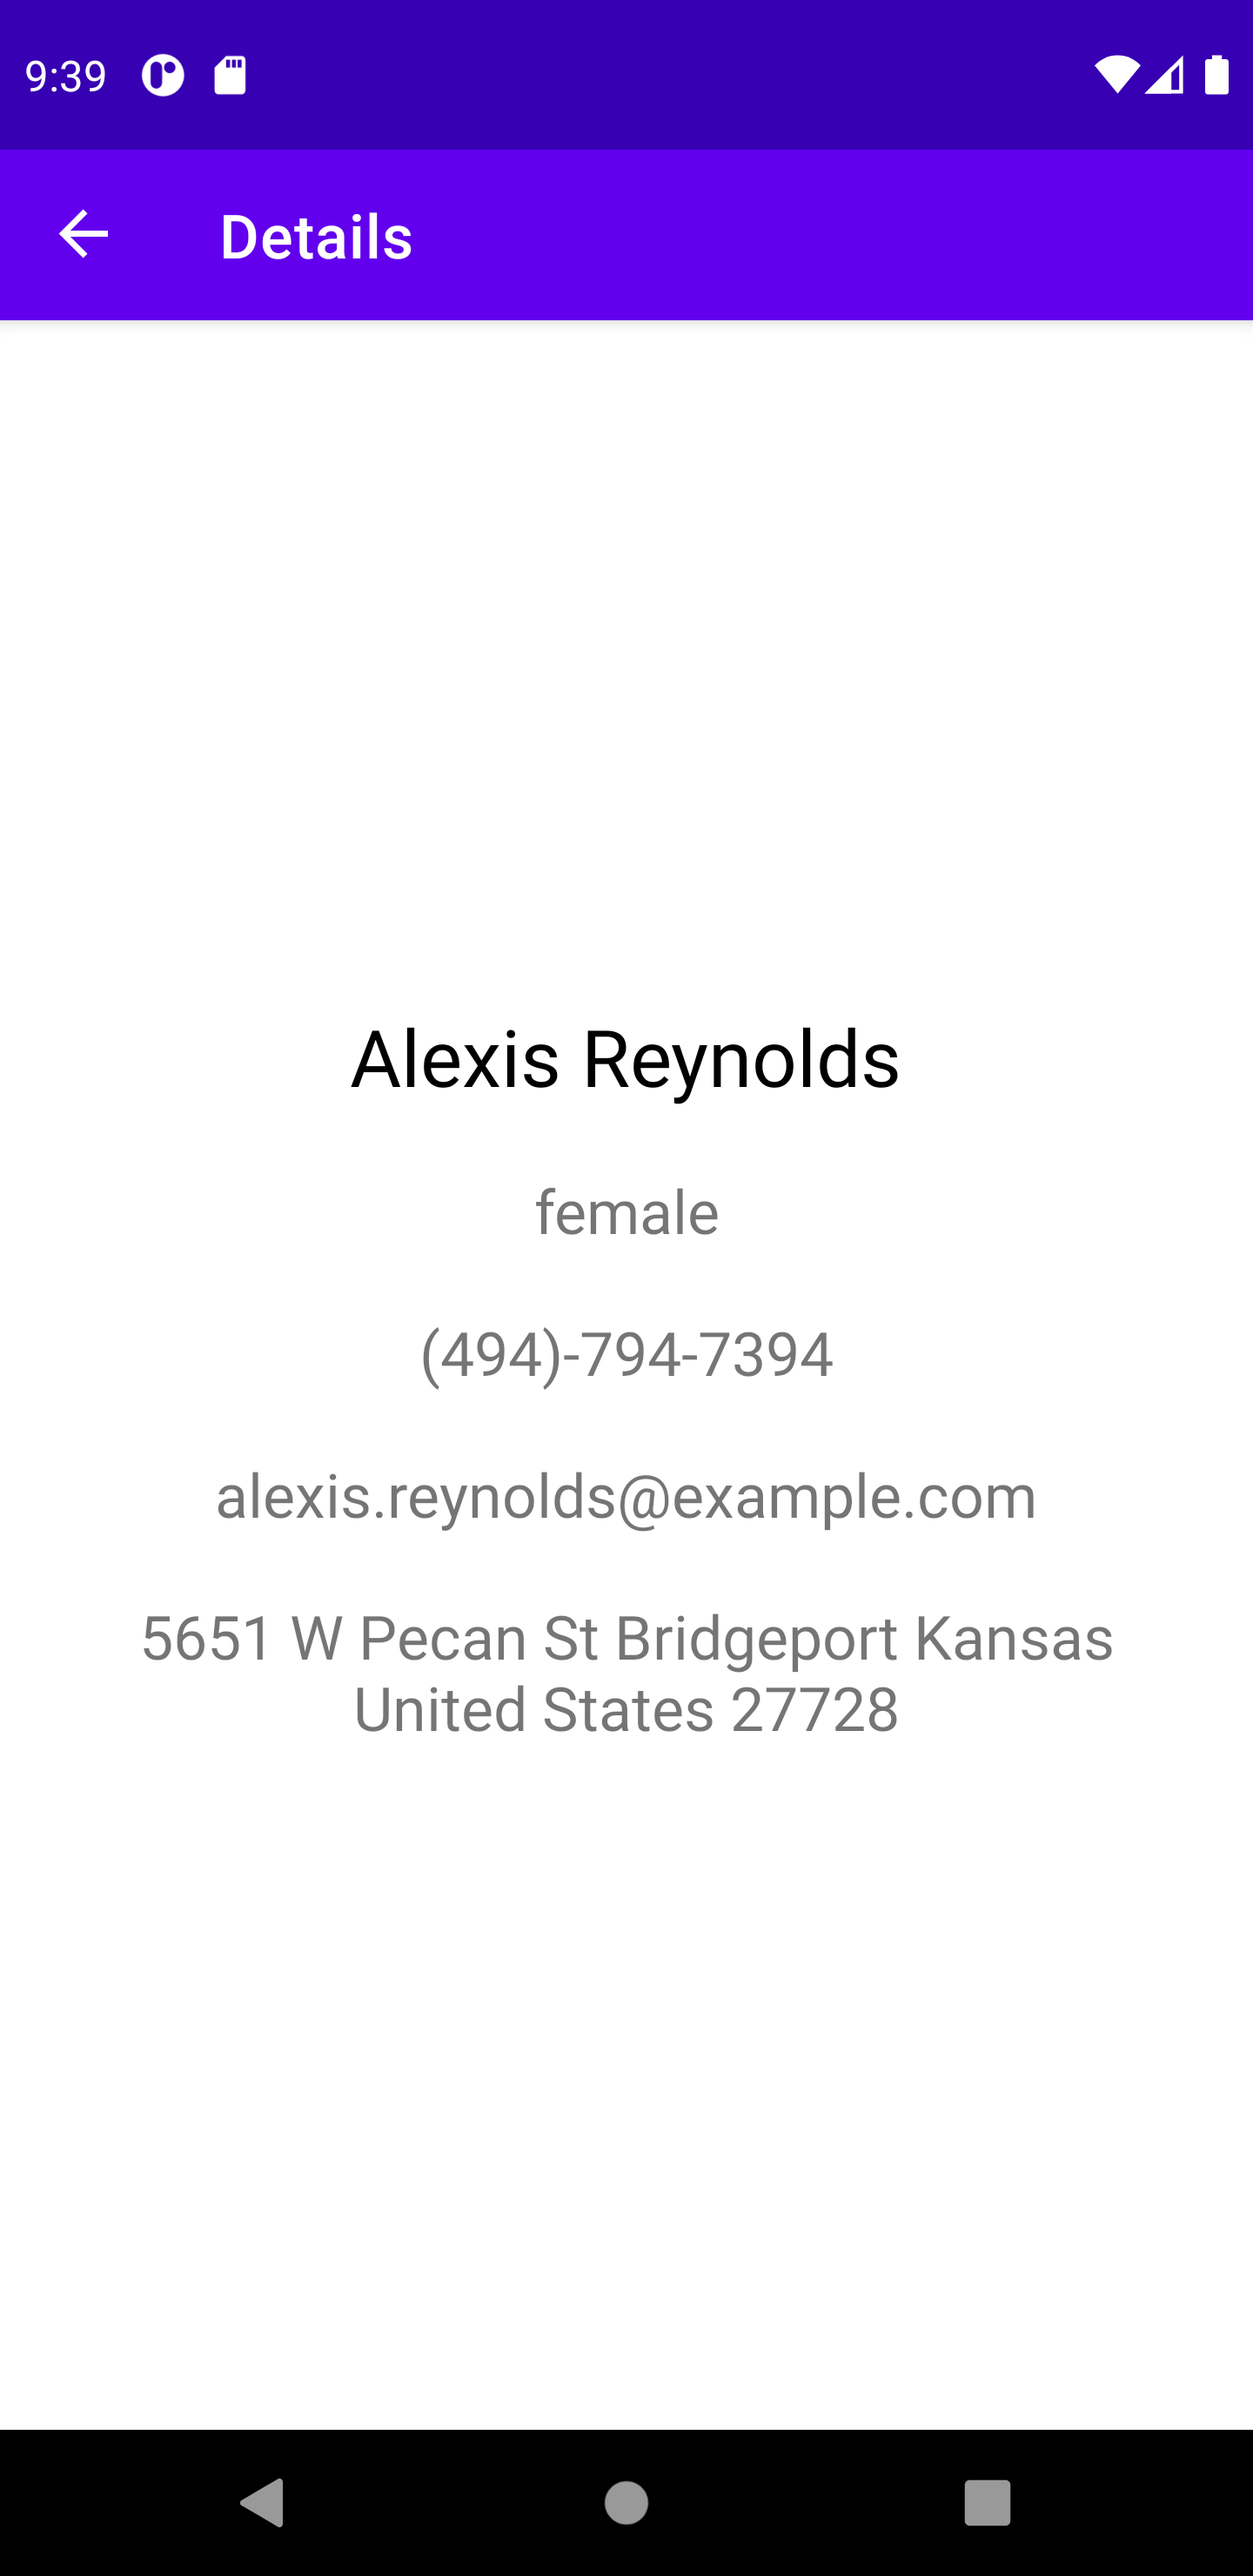
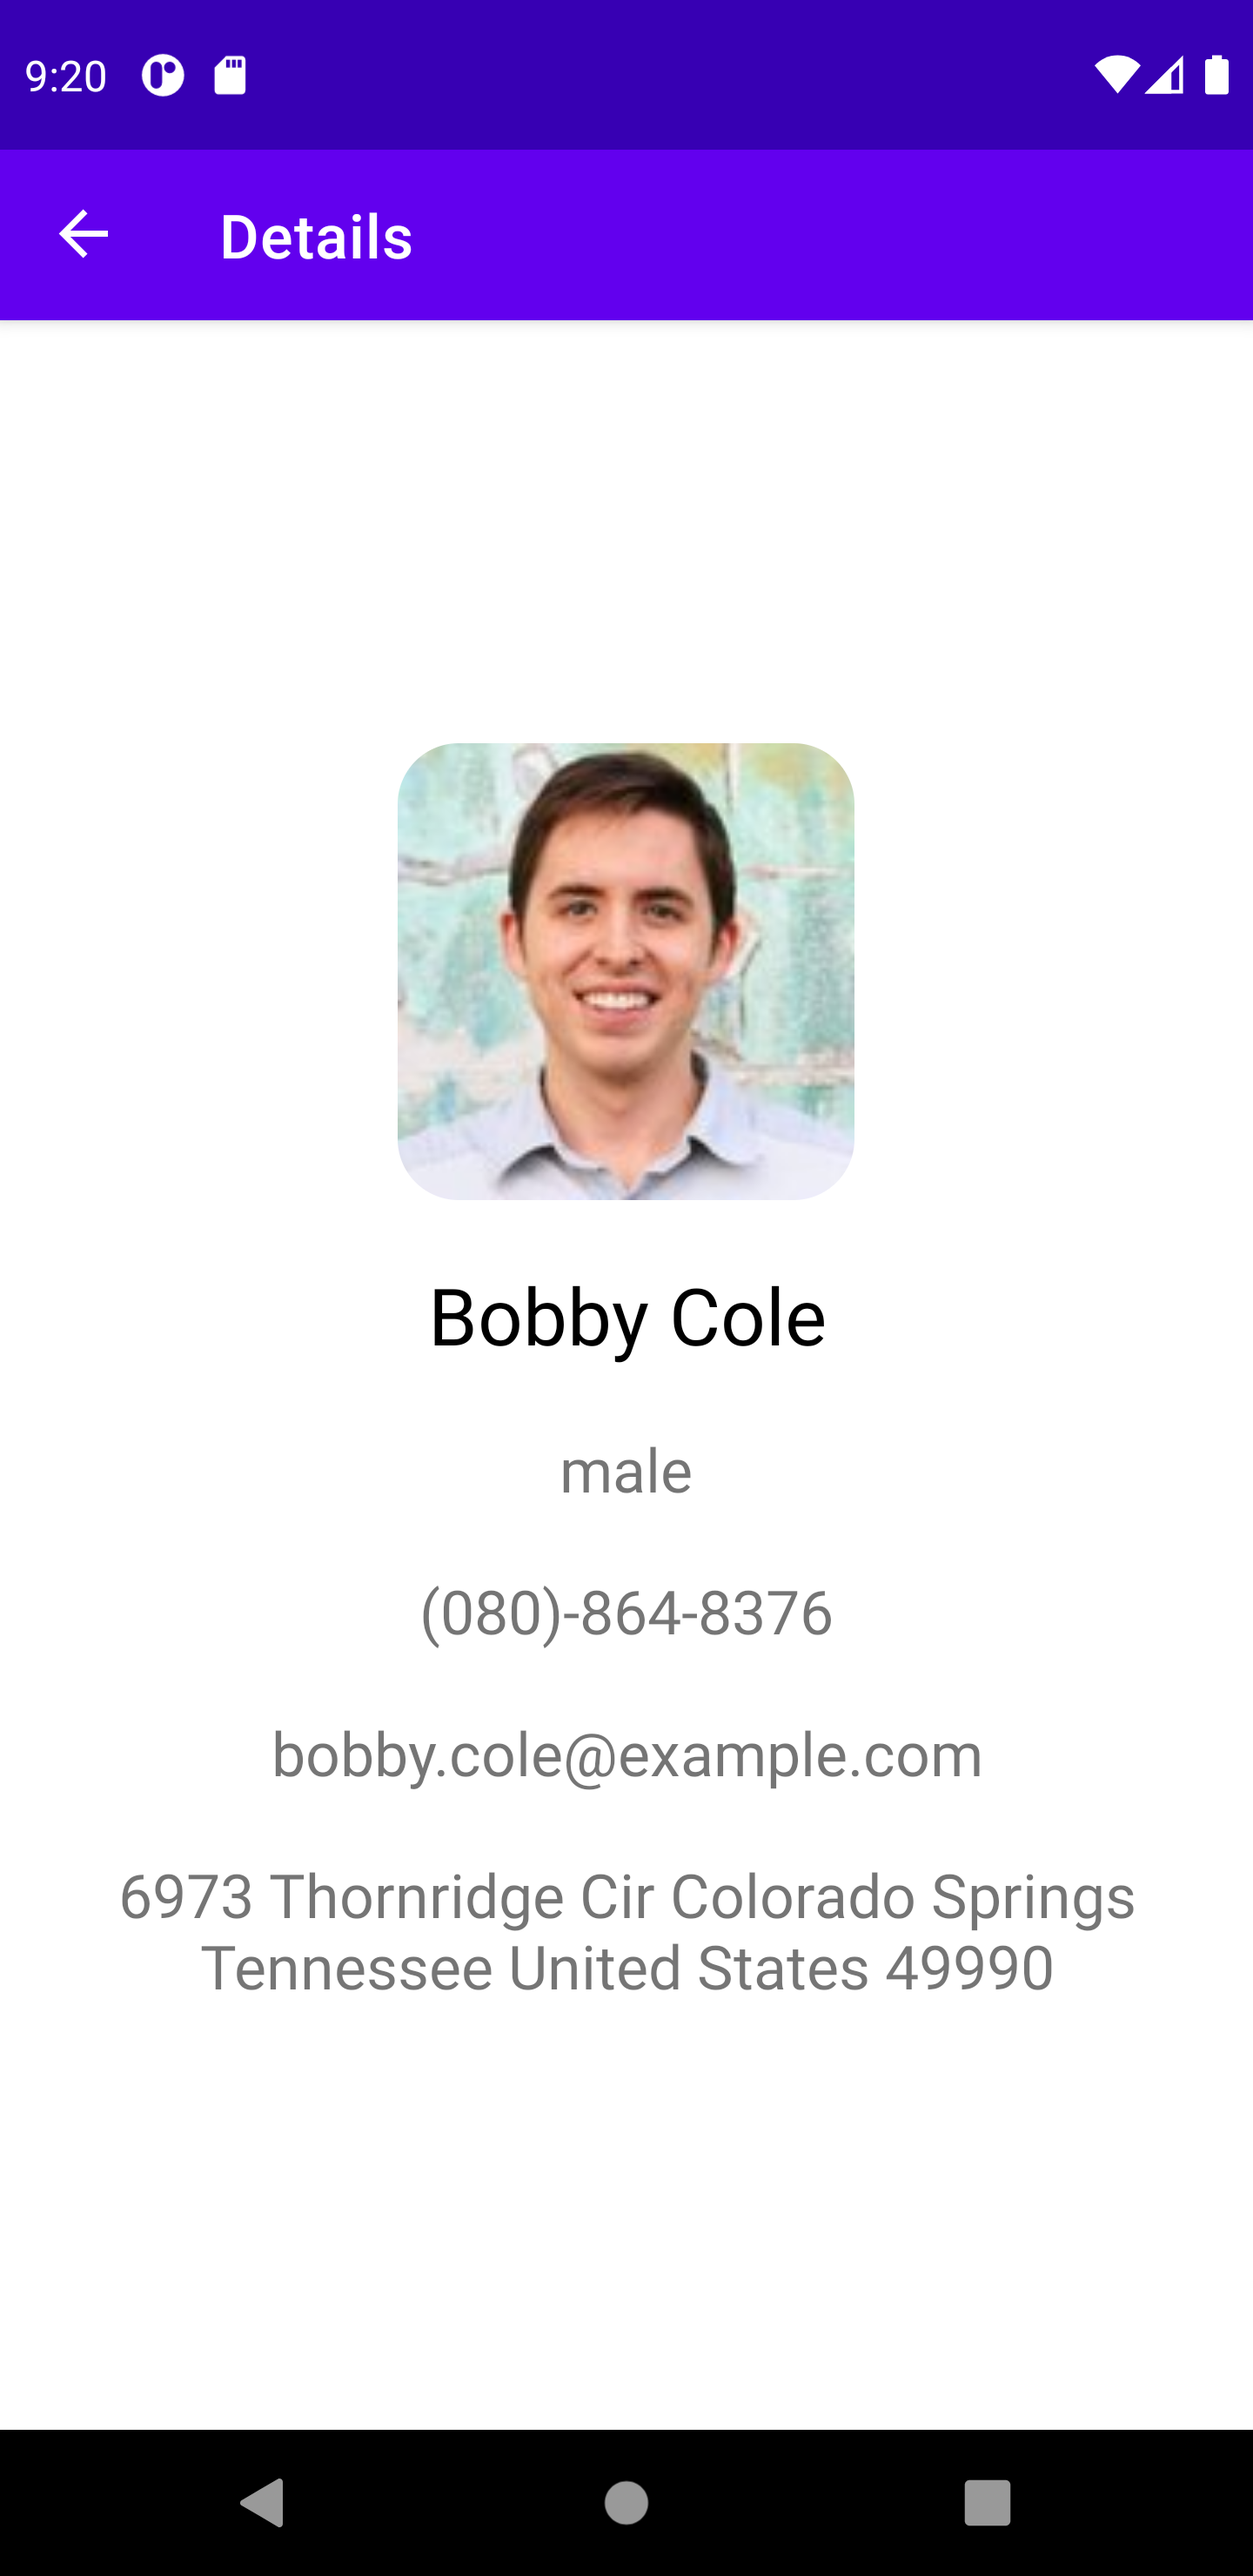
Fetched Picture from API

Changed region(s): [[0.0938, 0.6216, 0.9062, 0.777], [0.2812, 0.2797, 0.7188, 0.5284], [0.1875, 0.5595, 0.8125, 0.5905]]

diff --git a/app/src/main/java/com/example/contactsapp/util/BindingUtil.kt b/app/src/main/java/com/example/contactsapp/util/BindingUtil.kt
@@ -1,7 +1,11 @@
 package com.example.contactsapp.util
 
+import android.widget.ImageView
 import android.widget.TextView
+import androidx.core.net.toUri
 import androidx.databinding.BindingAdapter
+import com.bumptech.glide.Glide
+import com.bumptech.glide.request.RequestOptions
 
 /**
  * BindingAdapter for Contact Data in [list_item_contact.xml], [fragment_contact_detail.xml] ----------------------------------------------------------
@@ -46,3 +50,15 @@ fun TextView.setPhoneNumberFormatted(phone: String?) {
     }
 }
 
+/** Picture **/
+@BindingAdapter("imageUrl")
+fun ImageView.bindImage(imgUrl: String?) {
+    imgUrl?.let {
+        val imgUri = imgUrl.toUri().buildUpon().scheme("https").build()
+        Glide.with(context)
+            .load(imgUri)
+            // add loading and error images
+            .apply(RequestOptions())
+            .into(this)
+    }
+}
